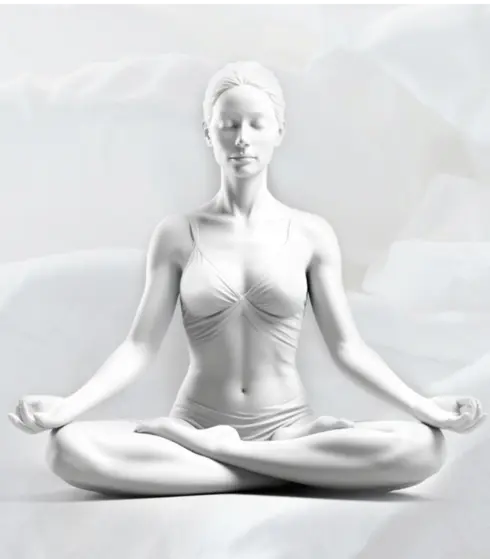
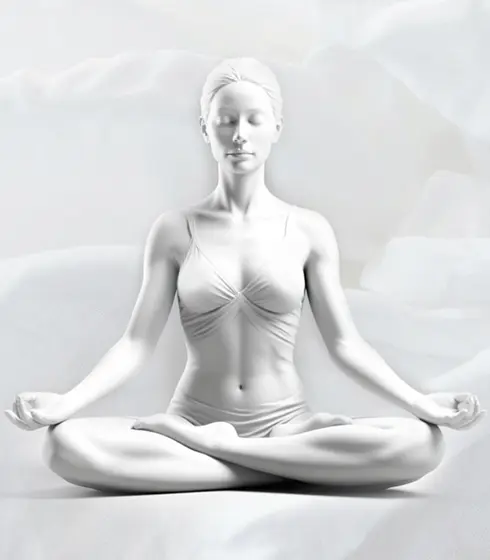
fix the bg image import in the assymetric layout

diff --git a/resources/js/layouts/user/WellnessTipLayout/partials/HeroSection/HeroSection.tsx b/resources/js/layouts/user/WellnessTipLayout/partials/HeroSection/HeroSection.tsx
@@ -1,18 +1,17 @@
 import {
     default as BgDk,
     default as BgDkTiny,
-} from '@/assets/images/assymetric-layout/hero-bg-dk-tiny.webp';
+} from '@/assets/images/assymetric-layout/hero-bg-dk.webp';
 import BgMbTiny from '@/assets/images/assymetric-layout/hero-bg-mb-tiny.webp';
 import BgMb from '@/assets/images/assymetric-layout/hero-bg-mb.webp';
 import BgTbTiny from '@/assets/images/assymetric-layout/hero-bg-tb-tiny.webp';
 import BgTb from '@/assets/images/assymetric-layout/hero-bg-tb.webp';
-import AnimatedOutline from '@/components/user/ui/AnimatedOutline/AnimatedOutline';
 import BgLoader from '@/components/user/ui/BgLoader/BgLoader';
+import { BgLoaderImg } from '@/lib/types/shared';
 import { cn } from '@/utils/cn';
+import { ComponentChildren } from 'preact';
 import { FC } from 'react-dom/src';
 import css from './HeroSection.module.scss';
-import { BgLoaderImg } from '@/lib/types/shared';
-import { ComponentChildren } from 'preact';
 
 type AssymetricHeroSectionProps = {
     heading: string;
@@ -42,6 +41,19 @@ const HeroSection: FC<AssymetricHeroSectionProps> = ({
                 mbTiny={BgMbTiny}
             />
 
+            <div class={css.content}>
+                <h1 class={css.heading}>
+                    {parts.slice(0, -1)}{' '}
+                    <span class={css.animated}>{parts.at(-1)}</span>
+                </h1>
+
+                <p class={css.intro}>{description}</p>
+
+                <div class={css.btnGroup}>
+                    <button class={'primary-btn'}>Купить подписку</button>
+                </div>
+            </div>
+
             <BgLoader
                 prtClass={cn(css.fgLoader)}
                 imgClass={css.fgImage}
@@ -54,19 +66,6 @@ const HeroSection: FC<AssymetricHeroSectionProps> = ({
             />
 
             {decorImg}
-
-            <div class={css.content}>
-                <h1 class={css.heading}>
-                    {parts.slice(0, -1)}{' '}
-                    <AnimatedOutline>{parts.at(-1)}</AnimatedOutline>
-                </h1>
-
-                <p class={css.intro}>{description}</p>
-
-                <div class={css.btnGroup}>
-                    <button class={'primary-btn'}>Купить подписку</button>
-                </div>
-            </div>
         </section>
     );
 };

diff --git a/resources/js/layouts/user/WellnessTipLayout/partials/HeroSection/HeroSection.module.scss b/resources/js/layouts/user/WellnessTipLayout/partials/HeroSection/HeroSection.module.scss
@@ -10,15 +10,20 @@
     @include u.px(rounded, null, null, 36, 36);
     @include u.px(mt, null, null, 37, 32);
     @include u.px(--padding, null, null, 27, 45);
-    @include u.px(min-h, 745, 745, 722, 797);
-    @include u.px(pt, 113, 212, 212, 233);
-    @include u.px(pb, 27, 30, 30, 30);
-    @include u.px(pl, null, null, 73, 132);
-    @include u.px(mb, 162, 249, 248, 266);
+    @include u.px(min-h, 608, 785, 742, 830);
+    @include u.px(pt, 103, 227, 180, 190);
+    @include u.px(px, 11, 64, 100, 180);
+    @include u.px(mb, 274, 316, 100, 100);
+
+    @include u.mw(md) {
+        display: flex;
+        align-items: start;
+        justify-content: space-between;
+    }
 }
 
 .bgImage {
-    object-position: bottom center;
+    object-position: bottom left;
     object-fit: contain;
 }
 
@@ -41,22 +46,21 @@
     position: absolute;
     height: auto;
     transform: translateY(var(--offsetY));
-    @include u.px(w, 249, 328, 502, 579);
+    @include u.px(w, 281, 475, 433, 498);
+    @include u.px(h, 321, 431, 494, 558);
     @include u.px(rounded, 20, 20, 20, 20);
-    @include u.px(--offsetY, 91, 155, 148, 182);
+    @include u.px(--offsetY, 224, 245, 0);
     overflow: hidden;
     overflow: clip;
     @include u.shadow(3);
 
-    @include u.mw(sm) {
-        @include u.px(mr, null, 35, 100, 248);
+    @include u.mw(md) {
+        margin-inline: 0;
+        position: relative;
     }
 }
 .fgImage {
-    object-fit: contain;
-    @include u.mw(md) {
-        object-position: bottom;
-    }
+    object-position: center;
 }
 
 .btnGroup {
@@ -71,7 +75,7 @@
 .content {
     text-align: center;
     margin-inline: auto;
-    @include u.px(w, 299, 585, 640, 652);
+    @include u.px(w, 321, 650, 652, 652);
     text-wrap: pretty;
 
     @include u.mw(sm) {
@@ -85,5 +89,13 @@
 .intro {
     font-weight: 500;
     text-wrap: balance;
-    @include u.px(mb, 26, 34, 38, 46);
+    @include u.px(mb, 30, 30, 50, 50);
+}
+
+.animated {
+    @include u.circled-text(hsla(256, 20%, 75%, 1));
+}
+
+.heading {
+    @include u.rm(text, 32, 48, 48, 48);
 }

diff --git a/resources/js/pages/user/Relaxation/Relaxation.tsx b/resources/js/pages/user/Relaxation/Relaxation.tsx
@@ -1,8 +1,7 @@
-import HeroDecorTiny from '@/assets/images/decision/hero-decor-tiny.webp';
-import HeroDecor from '@/assets/images/decision/hero-decor.webp';
-import FooterDecorTiny from '@/assets/images/decision/footer-decor-tiny.webp';
-import FooterDecor from '@/assets/images/decision/footer-decor.webp';
+import HeroDecorTiny from '@/assets/images/relaxation/hero-decor-tiny.webp';
+import HeroDecor from '@/assets/images/relaxation/hero-decor.webp';
 import LazyImage from '@/components/user/ui/LazyImage/LazyImage';
+import WellnessTipLayout from '@/layouts/user/WellnessTipLayout/WellnessTipLayout';
 import {
     foregroundImage,
     heroDescription,
@@ -11,7 +10,6 @@ import {
     introParts,
 } from '@/lib/data/relaxationPageData';
 import css from './Relaxation.module.scss';
-import WellnessTipLayout from '@/layouts/user/WellnessTipLayout/WellnessTipLayout';
 
 const Relaxation = () => {
     return (
@@ -29,13 +27,7 @@ const Relaxation = () => {
             }
             introHeading={introHeading}
             introIntros={introParts}
-        >
-            <LazyImage
-                img={FooterDecor}
-                tinyImg={FooterDecorTiny}
-                prtClass={css.footerDecor}
-            />
-        </WellnessTipLayout>
+        />
     );
 };
 export default Relaxation;

diff --git a/resources/js/pages/user/Relaxation/Relaxation.module.scss b/resources/js/pages/user/Relaxation/Relaxation.module.scss
@@ -8,34 +8,19 @@
 .heroDecor {
     position: absolute;
     z-index: 20;
-    left: 0;
+    right: 0;
     bottom: 0;
-    transform: translate(-15%, 70%);
+    transform: translate(10%, 15%);
     @include u.mw(sm) {
-        left: 50%;
-        transform: translate(-60%, 65%);
+        transform: translate(0%, 20%);
     }
     @include u.mw(md) {
-        left: 50%;
-        transform: translate(-45%, 45%);
-    }
-
-    @include u.px(w, 196, 291, 349, 371);
-}
-
-.footerDecor {
-    display: none;
-
-    @include u.mw(md) {
-        display: block;
-        position: absolute;
-        left: 0;
-        bottom: 0;
-        transform: translate(15%, -55%);
+        transform: translate(25%, 35%);
     }
     @include u.mw(lg) {
-        transform: translate(15%, -45%);
+        transform: translate(10%, 40%);
     }
 
-    @include u.px(w, null, null, 514, 580);
+    @include u.px(w, 175, 319, 369, 431);
 }
+

diff --git a/resources/js/layouts/user/WellnessTipLayout/partials/IntroSection/IntroSection.module.scss b/resources/js/layouts/user/WellnessTipLayout/partials/IntroSection/IntroSection.module.scss
@@ -5,24 +5,14 @@
     @include u.px(gap, null, null, 111, 230);
     /* @include u.px(px, null, 53 - 38, 95, 125); */
     @include u.px(mb, 92, 88, 139, 125);
-    @include u.mw(md) {
-        display: flex;
-        align-items: start;
-        justify-content: center;
-        text-align: left;
-    }
 }
 .headingWrapper {
     flex-shrink: 0;
-    position: relative;
     @include u.px(mb, 50, 50, 0);
-    @include u.px(w, null, null, 537, 590);
-    @include u.px(bottom, null, null, 95, 189);
 }
 
 .intro {
     display: grid;
     gap: 2ch;
     flex-shrink: 0;
-    @include u.px(w, null, null, 554, 759);
 }

diff --git a/resources/js/components/user/ui/AnimatedOutline/AnimatedOutline.tsx b/resources/js/components/user/ui/AnimatedOutline/AnimatedOutline.tsx
@@ -20,7 +20,7 @@ const AnimatedOutline: FC<NodeProps> = ({ className, children }) => {
                             id="path-template"
                             pathLength="100"
                             d="M54.5258 26.6493 C137.219 -7.52242 307.375 19.2348 301.768 58.9426 C296.558 95.8364 129.461 116.288 35.6483 83.3516 C-46.7721 54.4151 36.9856 -6.07122 124.326 2.77335"
-                            stroke-width="5"
+                            stroke-width="3"
                         />
                     </defs>
                     <use

diff --git a/resources/js/layouts/user/AssymetricLayout/partials/HeroSection/HeroSection.tsx b/resources/js/layouts/user/AssymetricLayout/partials/HeroSection/HeroSection.tsx
@@ -1,7 +1,7 @@
 import {
     default as BgDk,
     default as BgDkTiny,
-} from '@/assets/images/assymetric-layout/hero-bg-dk-tiny.webp';
+} from '@/assets/images/assymetric-layout/hero-bg-dk.webp';
 import BgMbTiny from '@/assets/images/assymetric-layout/hero-bg-mb-tiny.webp';
 import BgMb from '@/assets/images/assymetric-layout/hero-bg-mb.webp';
 import BgTbTiny from '@/assets/images/assymetric-layout/hero-bg-tb-tiny.webp';

diff --git a/resources/js/layouts/user/WellnessTipLayout/WellnessTipLayout.tsx b/resources/js/layouts/user/WellnessTipLayout/WellnessTipLayout.tsx
@@ -40,7 +40,7 @@ const WellnessTipLayout: FC<WellnessTipLayout> = ({
     children,
 }) => {
     return (
-        <AppLayout>
+        <AppLayout extendedFooter={false}>
             <Head title={headTitle} />
             <BgLoader
                 prtClass={cn(css.bgLoader, 'full-bleed')}
